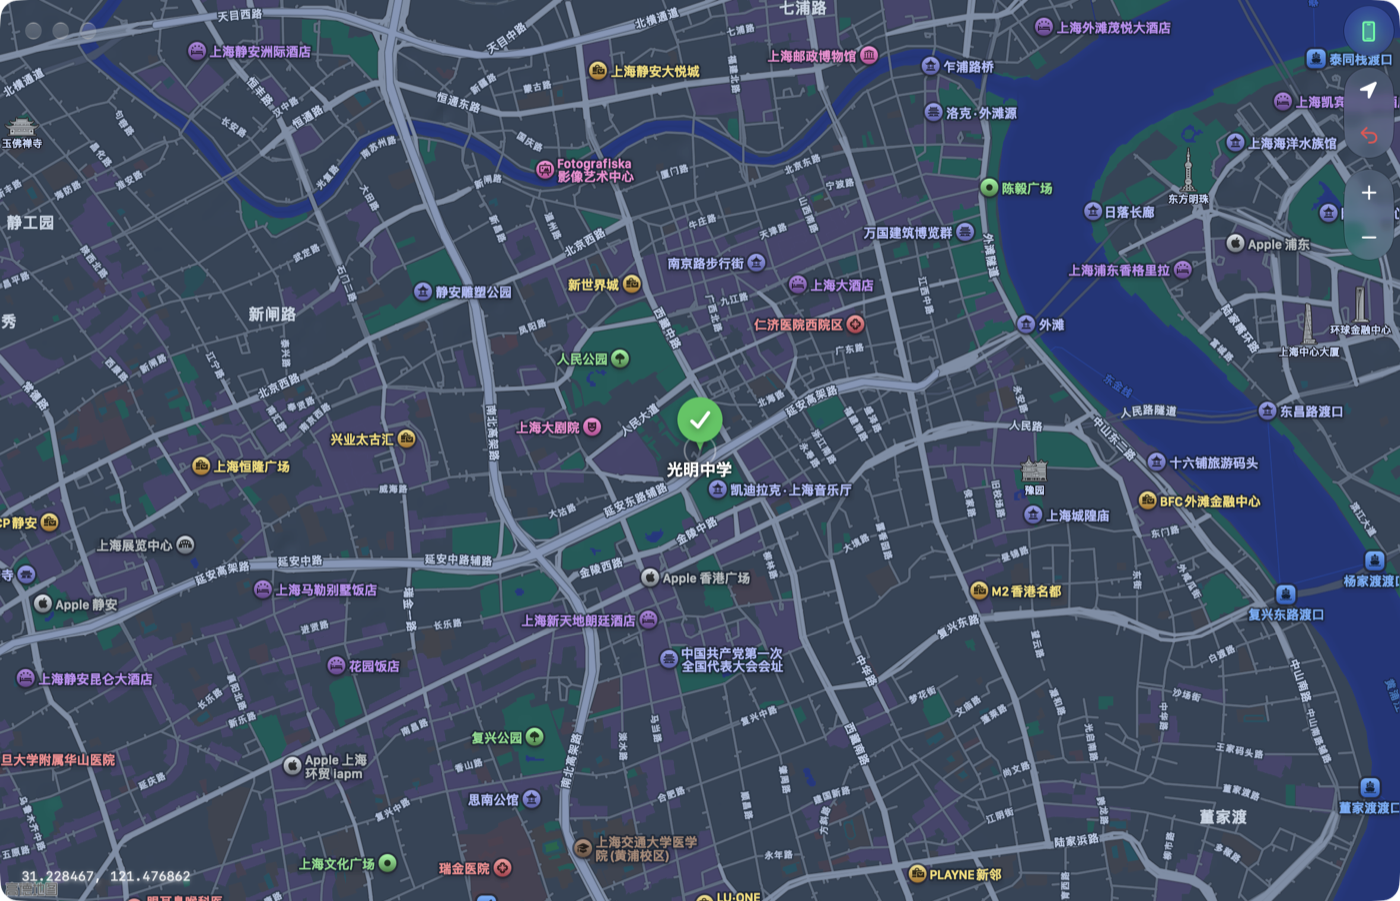
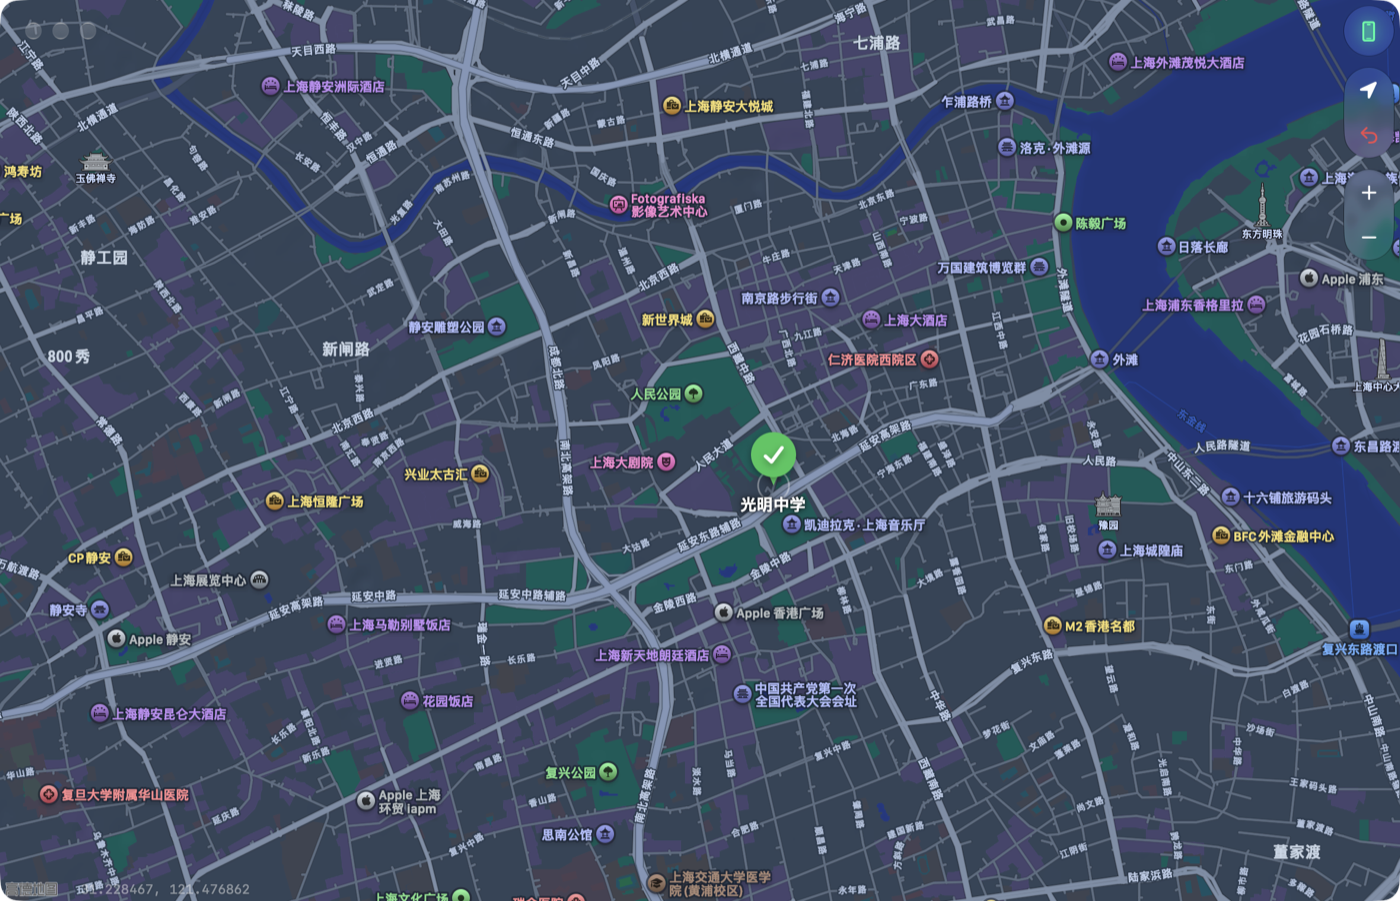
v1.0.2：坐标读数并入「高德地图」标注行，README 精简与截图更新
功能
- 坐标读数移到系统归属标注之后同一行（实测标注 x 2.5–65pt / 离底 0–13pt → 读数 68pt 起、离底 3pt）
- 读数配色与系统标注统一：白 0.45 半透明 + 极轻暗描边（原 primary 纯色 + 白色泛光）
- README 项目介绍精简为 31 行，中英同步；新增 CHANGELOG.md 并双向链接
- README 截图换成定位修改成功实拍（绿针 + 白勾 + 街道名，坐标在标注之后）

版本：1.0.1 → 1.0.2（CFBundleVersion 4）

diff --git a/locpilot/config.py b/locpilot/config.py
@@ -18,7 +18,7 @@ from typing import Any, Dict, Optional
 
 APP_NAME = "locpilot"
 APP_TITLE = "LocPilot"
-VERSION = "1.0.1"
+VERSION = "1.0.2"
 
 # --- 网络服务默认值 -------------------------------------------------------
 DEFAULT_HOST = "127.0.0.1"

diff --git a/locpilot/__init__.py b/locpilot/__init__.py
@@ -4,5 +4,5 @@
 libimobiledevice / go-ios / mock），界面交给本地 Web UI 与 CLI。
 """
 
-__version__ = "1.0.1"
+__version__ = "1.0.2"
 __all__ = ["__version__"]

diff --git a/README.en.md b/README.en.md
@@ -9,7 +9,7 @@
 ![License](https://img.shields.io/badge/license-GPL--3.0-blue.svg)
 ![Platform](https://img.shields.io/badge/platform-macOS%2026%2B-lightgrey.svg)
 ![Python](https://img.shields.io/badge/python-3.9%2B-3776ab.svg)
-![Status](https://img.shields.io/badge/status-v1.0.1-brightgreen.svg)
+![Status](https://img.shields.io/badge/status-v1.0.2-brightgreen.svg)
 
 **Download**: [⬇ latest installer (Apple Silicon / arm64, ZIP)](../../releases/latest)
 
@@ -24,7 +24,7 @@ The UI uses system frameworks (SwiftUI + MapKit, i.e. Apple Maps itself) while t
 * **Native macOS app**: the window holds exactly three things — the map, a control cluster top-right, a coordinate readout bottom-left. Full-bleed, with system Liquid Glass controls.
 * **Python backend** (launched by the app, also runnable standalone): the engine adapter layer, exposing both an **HTTP/SSE API and a CLI** — multi-point routes, GPX playback, address search and history all live in the backend.
 
-![LocPilot native UI: click the map to teleport](docs/images/app.png?v=1.0.1)
+![LocPilot native UI: click the map to teleport](docs/images/app.png?v=1.0.2)
 
 *Screenshot: Apple Maps itself, glass control cluster top-right, coordinate readout bottom-left; the pin shows the reverse-geocoded place name.*
 
@@ -41,7 +41,7 @@ The UI uses system frameworks (SwiftUI + MapKit, i.e. Apple Maps itself) while t
 
 **Stack**: Swift 5.9 + SwiftUI + MapKit + Liquid Glass (SwiftPM: LocPilotKit / LocPilotApp) · backend Python ≥3.9, standard library only at runtime · REST + SSE · engines pymobiledevice3 / libimobiledevice / go-ios / mock · geo MapKit / OSRM / Nominatim
 
-**Status**: **v1.0.1** is feature complete, with a native Apple Silicon installer. Known limits: [section 7](#7-known-limits-read-first).
+**Status**: **v1.0.2** is feature complete, with a native Apple Silicon installer. Known limits: [section 7](#7-known-limits-read-first).
 
 ## 1. Interface
 
@@ -67,7 +67,7 @@ Shortcuts: **⌘K** connect · **⌘⇧K** disconnect · **⌘⇧C** restore rea
 
 **Requirements: an Apple Silicon (M1 / M2 / M3 / M4 …) Mac running macOS 26 or later** — this build targets the macOS 26 SDK so the system Liquid Glass appearance is enabled (an older SDK makes every system control fall back to the legacy look).
 
-1. Open **[Releases](../../releases/latest)** and download `LocPilot-1.0.1-arm64.zip` (~470 KB)
+1. Open **[Releases](../../releases/latest)** and download `LocPilot-1.0.2-arm64.zip` (~470 KB)
 2. Unzip it and drag **LocPilot.app** into Applications
 3. **First launch**: this build is ad-hoc signed (not notarized), so Gatekeeper blocks the first double-click —
    right-click the app → **Open** → **Open** again; or run once:
@@ -79,7 +79,7 @@ Shortcuts: **⌘K** connect · **⌘⇧K** disconnect · **⌘⇧C** restore rea
 4. The engine is only needed to drive a **real** device: menu bar → *Engine → Install / Repair location engine…* (~40 MB, no sudo). Without it you can still explore the UI with the built-in mock device
 5. Connect the iPhone over USB, tap "Trust This Computer", enable Developer Mode, click the phone icon in the top-right, then **click anywhere on the map** — the location moves there once the pin lands
 
-> Verify the download: `shasum -a 256 LocPilot-1.0.1-arm64.zip` should match the SHA-256 shown on the Release page.
+> Verify the download: `shasum -a 256 LocPilot-1.0.2-arm64.zip` should match the SHA-256 shown on the Release page.
 
 ### Option B — Build from source
 

diff --git a/README.md b/README.md
@@ -9,7 +9,7 @@
 ![License](https://img.shields.io/badge/license-GPL--3.0-blue.svg)
 ![Platform](https://img.shields.io/badge/platform-macOS%2026%2B-lightgrey.svg)
 ![Python](https://img.shields.io/badge/python-3.9%2B-3776ab.svg)
-![Status](https://img.shields.io/badge/status-v1.0.1-brightgreen.svg)
+![Status](https://img.shields.io/badge/status-v1.0.2-brightgreen.svg)
 
 **下载**：[⬇ 最新安装包（Apple Silicon / arm64，ZIP）](../../releases/latest)
 
@@ -24,7 +24,7 @@ LocPilot 把「我这台 iPhone 现在在哪」变成地图上随手一点的事
 * **原生 macOS App**：界面只有三样东西 —— 地图、右上控件簇、左下坐标读数。全面屏，控件用系统 Liquid Glass 材质。
 * **Python 后端**（App 自动拉起，也能独立跑）：定位引擎适配层，同时对外提供 **HTTP/SSE API 与 CLI** —— 多点路线、GPX 回放、地址搜索、历史都长在后端。
 
-![LocPilot 原生界面：点击地图即传送](docs/images/app.png?v=1.0.1)
+![LocPilot 原生界面：点击地图即传送](docs/images/app.png?v=1.0.2)
 
 *截图：Apple 地图本体、右上玻璃控件簇、左下坐标读数；落针后显示反查到的地名。*
 
@@ -41,7 +41,7 @@ LocPilot 把「我这台 iPhone 现在在哪」变成地图上随手一点的事
 
 **技术栈**：Swift 5.9 + SwiftUI + MapKit + Liquid Glass（SwiftPM：LocPilotKit / LocPilotApp）· 后端 Python ≥3.9，运行期只用标准库 · REST + SSE · 引擎 pymobiledevice3 / libimobiledevice / go-ios / mock · 地理 MapKit / OSRM / Nominatim
 
-**状态**：**v1.0.1** 功能已全部完成，提供 Apple Silicon（M 系列）原生安装包；已知限制见 [第 7 节](#7-已知限制务必先读)。
+**状态**：**v1.0.2** 功能已全部完成，提供 Apple Silicon（M 系列）原生安装包；已知限制见 [第 7 节](#7-已知限制务必先读)。
 
 ## 1. 界面
 
@@ -67,7 +67,7 @@ LocPilot 把「我这台 iPhone 现在在哪」变成地图上随手一点的事
 
 **要求：Apple Silicon（M1 / M2 / M3 / M4 …）Mac + macOS 26 或更高** —— 本版以 macOS 26 SDK 构建，才能启用系统 Liquid Glass 新外观（用更低 SDK 构建会整体回落到旧版控件样式）。
 
-1. 打开 **[Releases](../../releases/latest)**，下载 `LocPilot-1.0.1-arm64.zip`（约 470 KB）
+1. 打开 **[Releases](../../releases/latest)**，下载 `LocPilot-1.0.2-arm64.zip`（约 470 KB）
 2. 解压，把 **LocPilot.app** 拖进「应用程序」
 3. **首次打开**：本版为 ad-hoc 签名（未做 Apple 公证），双击会被 Gatekeeper 拦一次 ——
    右键点 App →「打开」→ 弹窗里再点「打开」；或执行一次：
@@ -81,7 +81,7 @@ LocPilot 把「我这台 iPhone 现在在哪」变成地图上随手一点的事
 5. USB 连上 iPhone → 手机上点「信任此电脑」并开启开发者模式 → 点右上角手机图标连接 →
    **在地图上点一下**，大头针落下后定位即改到那里
 
-> 包完整性校验：`shasum -a 256 LocPilot-1.0.1-arm64.zip`，结果应与 Release 页里的 SHA-256 一致。
+> 包完整性校验：`shasum -a 256 LocPilot-1.0.2-arm64.zip`，结果应与 Release 页里的 SHA-256 一致。
 
 ### 方式 B：从源码构建
 

diff --git a/CHANGELOG.md b/CHANGELOG.md
@@ -2,6 +2,15 @@
 
 本文件记录每个版本的**实际改动**（Bug 修复与功能更新）。安装包与 SHA-256 见 [Releases](../../releases)。
 
+## v1.0.2 — 2026-10-07
+
+### ✨ 功能更新
+
+* **坐标读数改到系统「高德地图」标注之后**：与标注同一行（实测标注占 x 2.5–65pt、离窗口底 0–13pt → 读数从 68pt 起、离底 3pt）
+* **读数配色与系统标注统一**：白 0.45 半透明 + 极轻暗描边（此前是 primary 纯色 + 白色泛光，与底图割裂）
+* **README 精简**：项目介绍 47 行 → 31 行，中英双语同步；新增 `CHANGELOG.md` 并从两个 README 链接
+* README 界面截图换成真机定位修改成功的实拍（绿色大头针 + 白色对勾 + 反查街道名）
+
 ## v1.0.1 — 2026-10-07
 
 ### 🐞 Bug 修复
